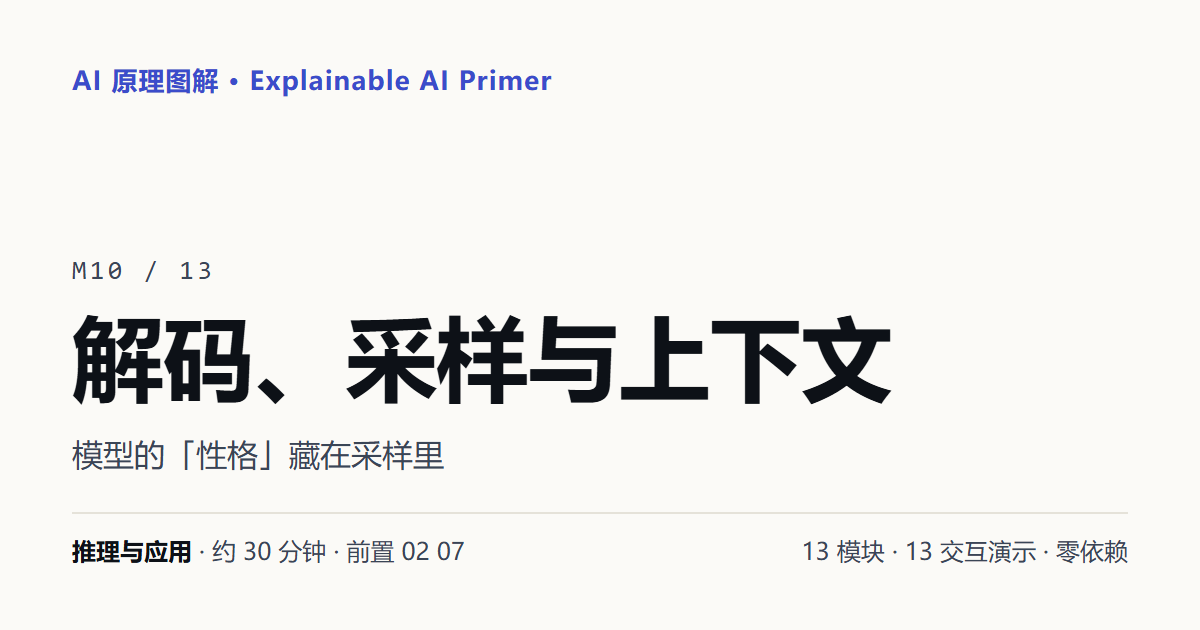
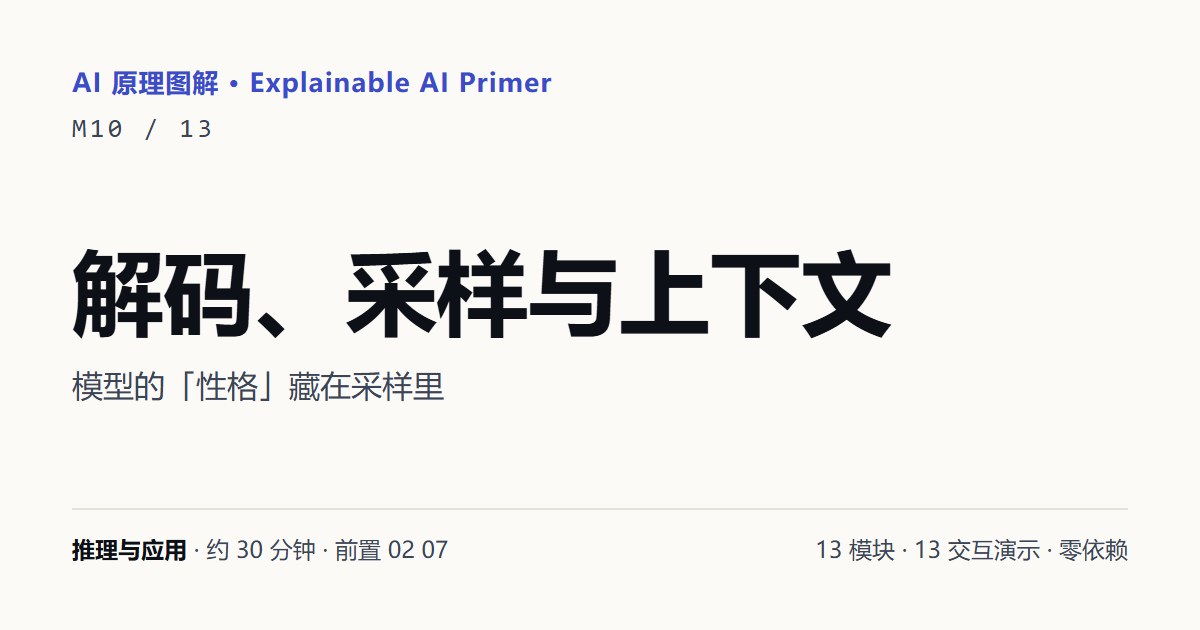
Put each module's main diagram into its OG card, and verify layout before writing
DESIGN §12.2 asks for "title + that module's main diagram". My first pass was
text-only, which silently under-delivered the one thing the requirement is
about - "forward it and it explains itself".

Measured before choosing the layout, because "just embed the diagram" is not
automatically legible: the site's figures are laid out on a 640-unit viewBox
with 13px labels, so at the ~300px width a chat link-card actually renders at,
the label height is 6.1px (3.3px on a mobile thumbnail) - unreadable. Only at
full 1200px width (Twitter large card) does it reach ~24px. So the diagram
goes in a right column at ~42% width while the title keeps its large size:
readers on small cards get a clear headline, readers on large cards also get a
legible diagram. m10/m11's first figure is a fig__* HTML table (the contract's
other allowed form, because Chinese cannot auto-wrap in SVG) with no inline
svg to lift - those two fall back to the text layout rather than faking an
image.

Two correctness points this touched:

- og-check.js had copied page() wholesale. After the two-column change it would
  have been checking a layout that no longer exists - all-green proving
  nothing. og-images.js now exports page/firstSvg/titleSize (with a
  require.main guard so importing does not screenshot) and the checker imports
  it. Same for the new in-script probe: generation and verification share one
  implementation.
- generation now probes before writing: overflow:hidden + fixed 630px means a
[…]

diff --git a/scripts/og-images.js b/scripts/og-images.js
@@ -53,29 +53,72 @@ const CHROME = findChrome();
 const DATA = JSON.parse(fs.readFileSync(path.join(ROOT, 'assets/data/modules.json'), 'utf8'));
 const esc = s => String(s).replace(/&/g, '&amp;').replace(/</g, '&lt;').replace(/>/g, '&gt;');
 
+/* §12.2 要求「标题 + 该模块主图」。但实测决定版面：站内主图按 640 viewBox 排、
+   标签 13px，缩到聊天链接卡的 300px 宽时字高只有 6.1px（移动端 3.3px）——那是
+   一团糊的装饰。所以主图放右栏、只占约 42% 宽，文字区保持大号字号优先可读；
+   大图场景（Twitter 1200px 全宽）里主图字高约 11px 勉强能读，小图场景读者看的是
+   标题。两版式共用同一套 CSS，差别只在有没有右栏。
+   主图是 .dgm 系 SVG，其 CSS 只依赖 .dgm 自身（不依赖 .figure 祖先），
+   因此可以连 base.css + diagram.css 一起内联独立渲染；主题写死 light，
+   分享卡不该跟随读者系统翻成两种观感。 */
+const CSS_LIGHT = (() => {
+  const base = fs.readFileSync(path.join(ROOT, 'assets/css/base.css'), 'utf8');
+  const dgm = fs.readFileSync(path.join(ROOT, 'assets/css/diagram.css'), 'utf8');
+  /* 只保留 :root 与 [data-theme="light"] 两支变量：把暗色分支整段切掉，
+     比留着再靠 html[data-theme=light] 覆盖更可靠（少一个出错面）。 */
+  const cut = (s) => s.replace(/@media[^{]*\{[\s\S]*?\n\}/g, '')
+    .replace(/\[data-theme="dark"\]\s*\{[\s\S]*?\n\}/g, '')
+    .replace(/@supports[^{]*\{[\s\S]*?\n\}/g, '');
+  return cut(base) + '\n' + cut(dgm);
+})();
+
+/* 取模块首张【静态 SVG】主图。m10/m11 的首图是 fig__* HTML 表格（契约 §1.4
+   允许的另一种实现，中文没法在 SVG 里自动换行），没有可内联的 svg —— 这两张
+   退回纯文字版式，而不是硬凑一个假图。 */
+function firstSvg(id) {
+  const src = fs.readFileSync(path.join(ROOT, 'content/modules', id + '.html'), 'utf8');
+  const fig = src.match(/<div class="figure"[\s\S]*?data-fig="([^"]+)"[\s\S]*?(<svg\b[\s\S]*?<\/svg>)/);
+  if (!fig) return null;
+  let svg = fig[2];
+  /* 图解里的 data-step 会被 .figure.is-focus 规则淡出；OG 卡没有聚焦态，
+     但保险起见去掉属性，避免任何依赖祖先的样式在这里生效。 */
+  svg = svg.replace(/\sdata-step="[^"]*"/g, '');
+  if (!/class="[^"]*\bdgm\b/.test(svg)) svg = svg.replace(/<svg\b/, '<svg class="dgm"');
+  return svg;
+}
+
 /* 版式：左上站点名、中间大号模块标题、下方 tagline、底部一条进度式说明。
    字号刻意大：OG 图在聊天软件里常被缩到 300px 宽，小字直接糊掉。 */
 function page(o) {
-  return `<!doctype html><html lang="zh-CN"><head><meta charset="utf-8"><style>
+  const twoCol = !!o.fig;
+  return `<!doctype html><html lang="zh-CN" data-theme="light"><head><meta charset="utf-8"><style>
+  ${CSS_LIGHT}
   *{margin:0;padding:0;box-sizing:border-box}
-  html,body{width:${W}px;height:${H}px;overflow:hidden}
-  body{background:#fbfaf7;color:#0d1117;font-family:system-ui,-apple-system,"Segoe UI","PingFang SC","Hiragino Sans GB","Microsoft YaHei",sans-serif;
-    padding:64px 72px;display:flex;flex-direction:column;position:relative}
+  html,body{width:${W}px;height:${H}px;overflow:hidden;background:#fbfaf7}
+  body{color:#0d1117;font-family:system-ui,-apple-system,"Segoe UI","PingFang SC","Hiragino Sans GB","Microsoft YaHei",sans-serif;
+    padding:60px 72px;display:flex;flex-direction:column;position:relative}
   .brand{font-size:26px;font-weight:600;letter-spacing:.04em;color:#3b4cca}
   .no{font-size:26px;color:#3a4556;letter-spacing:.14em;margin-top:auto;font-family:ui-monospace,Consolas,monospace}
   h1{font-size:${o.titleSize}px;line-height:1.16;font-weight:750;letter-spacing:-.01em;margin:18px 0 0}
-  .tag{font-size:31px;line-height:1.45;color:#3a4556;margin-top:22px;max-width:940px}
-  .foot{margin-top:34px;padding-top:22px;border-top:2px solid #e5e2d9;font-size:24px;color:#3a4556;
+  .tag{font-size:${twoCol ? 28 : 31}px;line-height:1.45;color:#3a4556;margin-top:20px;max-width:${twoCol ? 600 : 940}px}
+  .foot{margin-top:30px;padding-top:20px;border-top:2px solid #e5e2d9;font-size:23px;color:#3a4556;
     display:flex;justify-content:space-between;align-items:baseline}
   .foot b{color:#0d1117;font-weight:650}
   .mark{position:absolute;right:72px;top:60px;font-size:22px;color:#3a4556;font-family:ui-monospace,Consolas,monospace}
+  .cols{display:flex;gap:44px;align-items:center;flex:1;min-height:0}
+  .colL{flex:1 1 auto;min-width:0;display:flex;flex-direction:column}
+  .colR{flex:0 0 440px;min-width:0}
+  .colR svg{width:440px;height:auto}
   </style></head><body>
   <div class="brand">AI 原理图解 · Explainable AI Primer</div>
-  <!-- 编号只出现一次：模块卡用 .no（M07 / 13），站点卡没有编号才用右上角角标。
-       原先两处都放 M07，看着像没排版。 -->
   ${o.no ? `<div class="no">${esc(o.no)}</div>` : `<div class="mark">${esc(o.mark)}</div>`}
-  <h1>${esc(o.title)}</h1>
-  <div class="tag">${esc(o.tag)}</div>
+  <div class="cols">
+    <div class="colL">
+      <h1>${esc(o.title)}</h1>
+      <div class="tag">${esc(o.tag)}</div>
+    </div>
+    ${twoCol ? `<div class="colR">${o.fig}</div>` : ''}
+  </div>
   <div class="foot"><span><b>${esc(o.part)}</b> · ${esc(o.meta)}</span><span>13 模块 · 13 交互演示 · 零依赖</span></div>
   </body></html>`;
 }
@@ -83,8 +126,46 @@ function page(o) {
 /* 标题长度决定字号：M06/M12 的标题比 M11 长一倍，固定字号会溢出或挤成两行难看。 */
 function titleSize(t) { return t.length <= 10 ? 92 : t.length <= 14 ? 82 : t.length <= 18 ? 72 : 62; }
 
+/* 截图前先量版式：body 是 overflow:hidden + 固定 630px，标题换行/tagline 过长/
+   右栏图过高都会【静默】被裁——图看起来"正常"其实少了半行字，而分享卡没人会去
+   比对原文。所以这里注入探针量一次，不合格就不写文件（宁可少一张，不出一张错的）。
+   代价是每张多起一次 Chrome（14 张约 +25s），但生成是手动跑的，不在 CI 关键路径上。 */
+const PROBE = `<script>
+addEventListener('load', () => {
+  const out = [];
+  ['.brand','.no','.mark','h1','.tag','.foot','.colR','.colR svg'].forEach(s => {
+    const e = document.querySelector(s); if (!e) return;
+    const b = e.getBoundingClientRect();
+    if (b.bottom > ${H} + 1) out.push(s + ' 底边 ' + Math.round(b.bottom));
+    if (b.right > ${W} - 30) out.push(s + ' 右边 ' + Math.round(b.right));
+    if (b.width < 1 || b.height < 1) out.push(s + ' 零尺寸');
+  });
+  if (document.documentElement.scrollHeight > ${H} + 1) out.push('scrollH=' + document.documentElement.scrollHeight);
+  if (document.documentElement.scrollWidth > ${W} + 1) out.push('scrollW=' + document.documentElement.scrollWidth);
+  document.title = 'OGCHK::' + (out.length ? 'BAD:' + out.join('|') : 'ok');
+});
+</script>`;
+function probe(html) {
+  const base = process.env.AIP_TMP || os.tmpdir();
+  fs.mkdirSync(base, { recursive: true });
+  const dir = fs.mkdtempSync(path.join(base, 'aip-ogchk-'));
+  const f = path.join(dir, 'p.html'), d = path.join(dir, 'out.html');
+  fs.writeFileSync(f, html.replace('</head>', PROBE + '</head>'), 'utf8');
+  spawnSync('"' + CHROME + '" --headless=new --disable-gpu --no-sandbox --user-data-dir="' + path.join(dir, 'prof') +
+    '" --window-size=' + W + ',' + H + ' --virtual-time-budget=6000 --dump-dom "file:///' + f.replace(/\\/g, '/') +
+    '" > "' + d + '" 2> nul', { shell: true, stdio: 'ignore' });
+  let r = '(探针没跑到)';
+  try { r = (fs.readFileSync(d, 'utf8').match(/<title>OGCHK::([^<]*)<\/title>/) || [])[1] || r; } catch { /* 判为失败 */ }
+  try { fs.rmSync(dir, { recursive: true, force: true }); } catch { /* Chrome 句柄未放，不盖结论 */ }
+  return r;
+}
+
 function shot(html, png) {
-  const tmp = path.join(fs.mkdtempSync(path.join(os.tmpdir(), 'aip-og-')), 'card.html');
+  /* 临时目录走 AIP_TMP：C 盘空间不足时 Chrome 建不了 profile，会伪装成「截图失败」
+     （闸门 4 有过同样的假失败，见 verify-demos.js 的注释）。 */
+  const base = process.env.AIP_TMP || os.tmpdir();
+  fs.mkdirSync(base, { recursive: true });
+  const tmp = path.join(fs.mkdtempSync(path.join(base, 'aip-og-')), 'card.html');
   fs.writeFileSync(tmp, html, 'utf8');
   const prof = path.join(path.dirname(tmp), 'profile');
   const r = spawnSync('"' + CHROME + '" --headless=new --disable-gpu --no-sandbox --hide-scrollbars ' +
@@ -95,6 +176,11 @@ function shot(html, png) {
   return r.status === 0 && fs.existsSync(png);
 }
 
+/* 导出给 tmp/og-check.js 复用：那份检查必须量【同一套版式】，否则它证明的是
+   一个不存在的页面。用 CJS 顶层 return 早退，避免 require 时真的去截图。 */
+module.exports = { page, firstSvg, titleSize, W, H, DATA };
+if (require.main !== module) return;
+
 const only = (process.argv.find(a => a.startsWith('--only=')) || '').slice(7);
 fs.mkdirSync(OUT, { recursive: true });
 const jobs = [];
@@ -104,6 +190,7 @@ if (!only || only === 'site') {
 DATA.modules.forEach(m => {
   if (only && only !== m.id) return;   // --only=site 时这里全部跳过，只出站点图
   const part = DATA.parts.find(p => p.id === m.part);
+  const fig = firstSvg(m.id);
   jobs.push({
     id: m.id,
     html: page({
@@ -113,13 +200,18 @@ DATA.modules.forEach(m => {
       part: part ? part.title : m.part,
       meta: '约 ' + m.estMinutes + ' 分钟 · 前置 ' + (m.prereq.length ? m.prereq.map(p => p.toUpperCase().slice(1)).join(' ') : '无'),
       titleSize: titleSize(m.title),
+      fig: fig || '',          // m10/m11 首图是 fig__* HTML 表，没有可内联的 svg → 纯文字版式
     }),
+    hasFig: !!fig,
   });
 });
 
 let fail = 0;
 jobs.forEach(j => {
   const png = path.join(OUT, j.id + '.png');
+  /* 先量版式再截图：不合格直接跳过，坏图不落盘 */
+  const p = probe(j.html);
+  if (p !== 'ok') { console.error('  ✗ ' + j.id + ' 版式溢出，未生成：' + p); fail++; return; }
   const ok = shot(j.html, png);
   if (!ok) { console.error('  ✗ ' + j.id + ' 截图失败（Chrome: ' + CHROME + '）'); fail++; return; }
   const b = fs.readFileSync(png);
@@ -128,8 +220,10 @@ jobs.forEach(j => {
   const w = b.readUInt32BE(16), h = b.readUInt32BE(20);
   const dimOk = w === W && h === H;
   if (!dimOk) fail++;
+  /* 带右栏图解的卡要确认图真的画进去了：文件体积是最便宜的正信号（纯文字卡
+     ~50KB，带图 ~65-95KB）。这里只报体积，闸门那边再断言尺寸与存在性。 */
   console.log('  ' + (dimOk ? '✓' : '✗') + ' ' + j.id + '.png  ' + w + '×' + h +
-    '  ' + (b.length / 1024).toFixed(1) + ' KB');
+    '  ' + (b.length / 1024).toFixed(1) + ' KB' + (j.hasFig ? '  含图解' : '  纯文字'));
 });
-console.log(fail ? '\n' + fail + ' 张不合格' : '\n共生成 ' + jobs.length + ' 张（' + W + '×' + H + '）');
+console.log(fail ? '\n' + fail + ' 张不合格（未写入）' : '\n共生成 ' + jobs.length + ' 张（' + W + '×' + H + '）');
 process.exit(fail ? 1 : 0);
